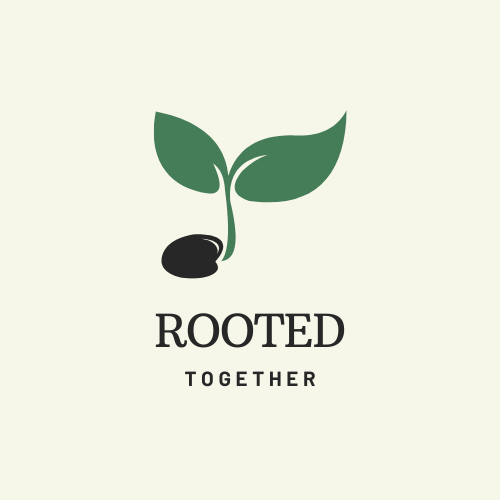
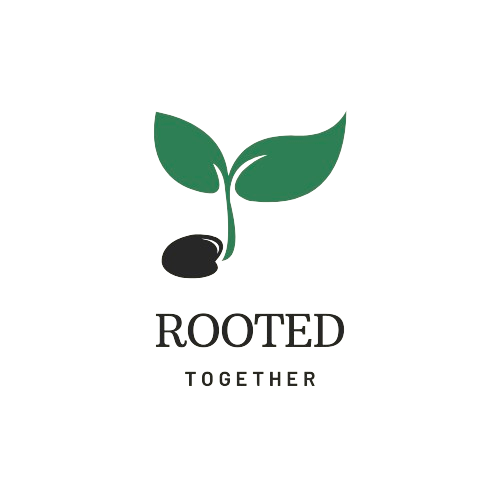
light mode dark mode commit

diff --git a/app/page.js b/app/page.js
@@ -9,16 +9,16 @@ import Link from 'next/link'
 export default function Home() {
   return (
     <main className="flex items-center text-dark w-full min-h-screen">
-      <div className='w-full h-full inline-block z-0 bg-light p-32 pt-0'>
+      <div className='w-full h-full inline-block z-0 bg-light p-32 pt-0 dark:bg-primaryDark'>
         <div className='flex items-center justify-between w-full '>
           <div className='w-1/3'>
             <Image src={logo} alt="Rooted" className='w-full h-auto' />
           </div>
           <div className='w-1/2 flex flex-col items-center self-center'>
             <AnimatedText text="Rooted Together" className=' !text-left'/>
-            <p className='text-primary my-4 text-base font-medium'>Lorem ipsum dolor sit amet, consectetur adipiscing elit, sed do eiusmod tempor incididunt ut labore et dolore magna aliqua. Ut enim ad minim veniam, quis nostrud exercitation ullamco laboris nisi ut aliquip ex ea commodo consequat. Duis aute irure dolor in reprehenderit in voluptate velit esse cillum dolore eu fugiat nulla pariatur. Excepteur sint occaecat cupidatat non proident, sunt in culpa qui officia deserunt mollit anim id est laborum</p>
+            <p className='text-primary my-4 text-base font-medium dark:text-light'>Lorem ipsum dolor sit amet, consectetur adipiscing elit, sed do eiusmod tempor incididunt ut labore et dolore magna aliqua. Ut enim ad minim veniam, quis nostrud exercitation ullamco laboris nisi ut aliquip ex ea commodo consequat. Duis aute irure dolor in reprehenderit in voluptate velit esse cillum dolore eu fugiat nulla pariatur. Excepteur sint occaecat cupidatat non proident, sunt in culpa qui officia deserunt mollit anim id est laborum</p>
             <div className='flex items-center self-start mt-2'>
-              <Link href="https://hcb.hackclub.com/donations/start/rootedtogether" className="flex items-center bg-primary text-light p-2.5 px-6 rounded-lg text-lg font-semibold hover:bg-light hover:text-primary border-2 border-solid border-transparent hover:border-primary" target={"_blank"}>Support us</Link>
+              <Link href="https://hcb.hackclub.com/donations/start/rootedtogether" className="flex items-center bg-primary dark:bg-light text-light dark:text-primaryDark p-2.5 px-6 rounded-lg text-lg font-semibold hover:bg-light hover:text-primary border-2 border-solid border-transparent hover:border-primary" target={"_blank"}>Support us</Link>
               <Link href="mailto:contact.rootedtogether@gmail.com" className='flex items-center ml-4 p-2.5 px-6 rounded-lg text-lg font-semibold  text-dark border-2 border-solid  border-dark hover:text-light hover:bg-dark' >Contact</Link>
             </div>
           </div>

diff --git a/app/components/NavBar.tsx b/app/components/NavBar.tsx
@@ -29,7 +29,7 @@ const NavBar = () => {
 
 
     return (
-        <header className="w-full px-32 py-8 font-medium flex items-center justify-between">
+        <header className="w-full px-32 py-8 font-medium flex items-center justify-between dark:text-light">
             <nav>
                 <CustomLink href="/" title="Home" className="mr-4" />
                 <CustomLink href="/about" title="About" className="mx-4" />
@@ -42,11 +42,11 @@ const NavBar = () => {
                 <motion.a href="https://www.tiktok.com/@us.rootedtogether" target="_blank" whileHover={{ y: 2 }} whileTap={{ scale: 0.9 }} className="px-2"><TiktokIcon className="h-auto w-full" /></motion.a>
                 <motion.a href="https://www.youtube.com/@us.rootedtogether" target="_blank" whileHover={{ y: 2 }} whileTap={{ scale: 0.9 }} className="px-2"><YoutubeIcon className="h-auto w-full" /></motion.a>
                 <motion.a href="https://www.linkedin.com/company/rooted-together/" target="_blank" whileHover={{ y: 2 }} whileTap={{ scale: 0.9 }} className="px-2"><LinkedInIcon className="h-auto w-full" /></motion.a>
-                <motion.a href="mailto:contact.rootedtogether@gmail.com" target="_blank" whileHover={{ y: 2 }} whileTap={{ scale: 0.9 }} className="px-2"><EmailIcon className="h-auto w-full" /></motion.a>
+                <motion.a href="mailto:contact.rootedtogether@gmail.com" target="_blank" whileHover={{ y: 2 }} whileTap={{ scale: 0.9 }} className="px-2"><EmailIcon className="h-auto w-full dark:fill-light" /></motion.a>
 
                 <button onClick={() => setMode(mode === "light" ? "dark" : "light")} className="ml-3 flex items-center justify-center rounded-full p-1">
                     {mode == "dark" ? 
-                    <Sun className={"fill-primary"} />
+                    <Sun className={"fill-primary dark:fill-light"} />
                      : 
                      <Moon className={"fill-primary"} />}
                 </button>

diff --git a/app/blog/BlogNavBar.tsx b/app/blog/BlogNavBar.tsx
@@ -1,6 +1,6 @@
 import React from "react";
 import Link from "next/link";
-import {Menu} from '../public/list.svg'
+import List from "../components/icons/List";
 
 
 
@@ -13,9 +13,7 @@ const BlogNavBar = () => {
     
             
             <div className='flex flex-row space-x-5 items-center justify-center md:justify-start md:px-12 border-b border-zinc-500 w-full'>  
-                <Menu>
-                    
-                </Menu>
+                <List className="hover:dark:bg-dark"></List>
             </div>
 
             

diff --git a/app/components/icons/List.tsx b/app/components/icons/List.tsx
@@ -1,0 +1,13 @@
+import * as React from "react"
+const List = ({className, ...rest}) => (
+  <svg
+    xmlns="http://www.w3.org/2000/svg"
+    width={48} height={48} className={`w-full h-auto bi bi-list ${className}`} {...rest}
+  >
+    <path
+      fillRule="evenodd"
+      d="M2.5 12a.5.5 0 0 1 .5-.5h10a.5.5 0 0 1 0 1H3a.5.5 0 0 1-.5-.5m0-4a.5.5 0 0 1 .5-.5h10a.5.5 0 0 1 0 1H3a.5.5 0 0 1-.5-.5m0-4a.5.5 0 0 1 .5-.5h10a.5.5 0 0 1 0 1H3a.5.5 0 0 1-.5-.5"
+    />
+  </svg>
+)
+export default List

diff --git a/app/layout.js b/app/layout.js
@@ -16,7 +16,7 @@ export const metadata = {
 export default function RootLayout({ children }) {
   return (
     <html className={montserrat.className} lang="en">
-      <body className="bg-light w-full min-h-screen">
+      <body className="bg-light w-full min-h-screeen dark:bg-primaryDark">
       <NavBar/>
         {children}
       <Footer/>

diff --git a/tailwind.config.js b/tailwind.config.js
@@ -12,6 +12,7 @@ module.exports = {
         dark:"#457D58",
         light:"#F6F6E9",
         primary:"#272727",
+        primaryDark:"#00203F",
         blog:"#9F8C76"
       }
     },
